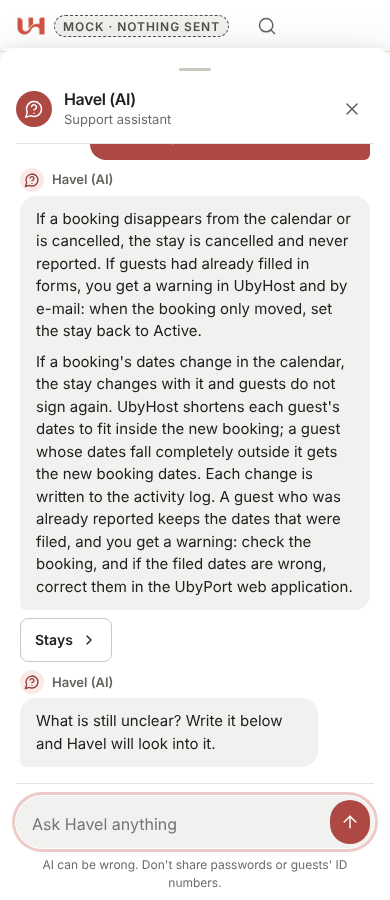
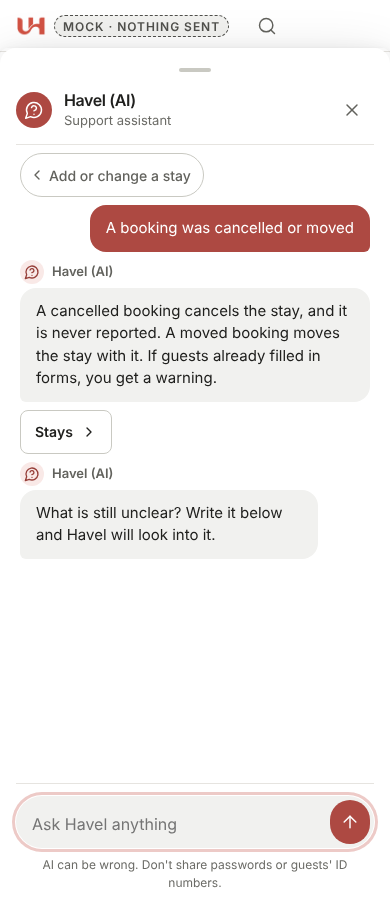
0392: Havel answers short and direct
- Topic answers show one short string per question (havel.short.* in en, cs, vi); the guide keys stay for read_keys()
- AI prompt: at most four steps, about 60 words, no intro or summary, up to two answers per reply
- Tests and refreshed answer-ask-390 screenshot

Claude-Session: https://claude.ai/code/session_017GNdySPNU4QowPqKkDneew

diff --git a/App/app/havel_topics.py b/App/app/havel_topics.py
@@ -1,6 +1,7 @@
 """Havel's quick-help layer (plan 17c): five topics, each with two to four questions.
 
-An answer is the guide strings named by its keys, in order, shown as paragraphs.
+An answer shows its short string as paragraphs (questions without one show the guide strings
+named by their keys). The guide keys are what the host is told to read more of.
 No model call, no cost, no count. When the host presses "Still need help? Ask
 Havel", the topic and the keys they have just read travel with the message as
 ``topic`` and ``read_keys`` in the host context, so Havel does not repeat them.
@@ -13,37 +14,37 @@ from . import host_i18n
 
 TOPICS: List[Dict[str, Any]] = [
     {"id": "stays", "icon": "calendar-days", "label": "havel.topic.stays", "questions": [
-        {"id": "add", "label": "havel.q.stays.add", "keys": ["guide.stays.body"], "page": "add_stay"},
-        {"id": "change", "label": "havel.q.stays.change", "keys": ["guide.stays.detail"], "page": "stays"},
-        {"id": "cancelled", "label": "havel.q.stays.cancelled",
+        {"id": "add", "label": "havel.q.stays.add", "short": "havel.short.stays.add", "keys": ["guide.stays.body"], "page": "add_stay"},
+        {"id": "change", "label": "havel.q.stays.change", "short": "havel.short.stays.change", "keys": ["guide.stays.detail"], "page": "stays"},
+        {"id": "cancelled", "label": "havel.q.stays.cancelled", "short": "havel.short.stays.cancelled",
          "keys": ["guide.stays.cancelled", "guide.stays.dates_changed"], "page": "stays"},
     ]},
     {"id": "guest_link", "icon": "external-link", "label": "havel.topic.guest_link", "questions": [
-        {"id": "how", "label": "havel.q.guest_link.how",
+        {"id": "how", "label": "havel.q.guest_link.how", "short": "havel.short.guest_link.how",
          "keys": ["guide.guests.body", "guide.guests.step_pin", "guide.guests.step_pick", "guide.guests.step_claim",
                   "guide.guests.step_form"], "page": "property_guests"},
-        {"id": "where", "label": "havel.q.guest_link.where", "keys": ["guide.guest_links.find1", "guide.guest_links.find2",
+        {"id": "where", "label": "havel.q.guest_link.where", "short": "havel.short.guest_link.where", "keys": ["guide.guest_links.find1", "guide.guest_links.find2",
                   "guide.guest_links.find3", "guide.guest_links.find4", "guide.guest_links.find5"],
          "page": "property_guests"},
-        {"id": "broken", "label": "havel.q.guest_link.broken", "keys": ["guide.faq.link_a"], "page": "property_guests"},
+        {"id": "broken", "label": "havel.q.guest_link.broken", "short": "havel.short.guest_link.broken", "keys": ["guide.faq.link_a"], "page": "property_guests"},
     ]},
     {"id": "reporting", "icon": "send", "label": "havel.topic.reporting", "questions": [
-        {"id": "when", "label": "havel.q.reporting.when",
+        {"id": "when", "label": "havel.q.reporting.when", "short": "havel.short.reporting.when",
          "keys": ["guide.reporting.body", "guide.reporting.immediate_detail", "guide.reporting.scheduled_detail",
                   "guide.reporting.manual_detail"], "page": "reports"},
-        {"id": "colours", "label": "havel.q.reporting.colours",
+        {"id": "colours", "label": "havel.q.reporting.colours", "short": "havel.short.reporting.colours",
          "keys": ["guide.statuses.lede", "guide.statuses.ready", "guide.statuses.waiting", "guide.statuses.reported",
                   "guide.statuses.failed"], "page": "guide_statuses"},
-        {"id": "czech", "label": "havel.q.reporting.czech", "keys": ["guide.faq.czech_a"], "page": "reports"},
+        {"id": "czech", "label": "havel.q.reporting.czech", "short": "havel.short.reporting.czech", "keys": ["guide.faq.czech_a"], "page": "reports"},
     ]},
     {"id": "calendars", "icon": "refresh-cw", "label": "havel.topic.calendars", "questions": [
-        {"id": "connect", "label": "havel.q.calendars.connect", "keys": ["guide.stays.calendar1", "guide.stays.calendar2",
+        {"id": "connect", "label": "havel.q.calendars.connect", "short": "havel.short.calendars.connect", "keys": ["guide.stays.calendar1", "guide.stays.calendar2",
                     "guide.stays.calendar3", "guide.stays.calendar4", "guide.stays.calendar5",
                     "guide.stays.calendar6", "guide.stays.calendar7"], "page": "property_calendars"},
-        {"id": "stale", "label": "havel.q.calendars.stale", "keys": ["guide.stays.body"], "page": "property_calendars"},
+        {"id": "stale", "label": "havel.q.calendars.stale", "short": "havel.short.calendars.stale", "keys": ["guide.stays.body"], "page": "property_calendars"},
     ]},
     {"id": "wrong", "icon": "triangle-alert", "label": "havel.topic.wrong", "questions": [
-        {"id": "report", "label": "havel.q.wrong.report", "keys": ["guide.reporting.failure"], "page": "reports"},
+        {"id": "report", "label": "havel.q.wrong.report", "short": "havel.short.wrong.report", "keys": ["guide.reporting.failure"], "page": "reports"},
         {"id": "error", "label": "havel.q.wrong.error", "keys": ["havel.topic.support_body"], "page": None,
          "support": True},
     ]},
@@ -81,6 +82,7 @@ def answer(lang: str, topic_id: str, q_id: str) -> Optional[Dict[str, Any]]:
     q = question(topic_id, q_id)
     if not q:
         return None
-    texts = [host_i18n.translate(lang, k) for k in q["keys"]]
+    keys = [q["short"]] if q.get("short") else q["keys"]
+    texts = [host_i18n.translate(lang, k) for k in keys]
     return {"topic": topic_id, "question": q, "paragraphs": [t for t in texts if t and t != "?"],
             "page": q.get("page"), "support": bool(q.get("support"))}

diff --git a/App/app/host_i18n.py b/App/app/host_i18n.py
@@ -1598,6 +1598,18 @@ STRINGS: Dict[str, Dict[str, str]] = {
         "havel.topic.ask": "Didn't help? Ask Havel",
         "havel.topic.guide": "Read more in the guide",
         "havel.topic.support_body": "Write to support with what you see and on which page. A person replies by e-mail.",
+        "havel.short.stays.add": "Use Add stay (the button below). Stays from your connected calendars come in on their own.",
+        "havel.short.stays.change": "Open the stay. There you add or remove guests, copy the guest link, send the report, set its state and create an invoice.",
+        "havel.short.stays.cancelled": "A cancelled booking cancels the stay, and it is never reported. A moved booking moves the stay with it. If guests already filled in forms, you get a warning.",
+        "havel.short.guest_link.how": "Guests open your property link, enter the PIN, pick their stay and fill in one form per person, children included.",
+        "havel.short.guest_link.where": "Open the property, then Settings and Guest experience. Under Guest links, copy the link and the Access PIN into your check-in message.",
+        "havel.short.guest_link.broken": "Check the guest has the current PIN. Their stay shows from two days before arrival. If someone else claimed it, open the stay and press Unlink this e-mail.",
+        "havel.short.reporting.when": "It depends on the property's setting: as soon as all forms are complete, a set number of hours later, or only when you press Send.",
+        "havel.short.reporting.colours": "The stronger the colour, the more it needs you. Failed means UbyPort did not accept it: open the stay and act.",
+        "havel.short.reporting.czech": "No. Czech guests are not reported to the police.",
+        "havel.short.calendars.connect": "Copy the iCal export link from Airbnb or Booking.com. Paste it on the property's Bookings & calendars tab and tap Add calendar.",
+        "havel.short.calendars.stale": "UbyHost checks calendars on its own. To fetch new bookings now, tap Update calendars on the property's Bookings & calendars tab.",
+        "havel.short.wrong.report": "If UbyPort is down, UbyHost retries on its own and alerts you. If UbyPort refuses the login, sending pauses until you save new login details.",
         "havel.q.stays.add": "How do I add a stay by hand?",
         "havel.q.stays.change": "What can I change on a stay?",
         "havel.q.stays.cancelled": "A booking was cancelled or moved",
@@ -3235,6 +3247,18 @@ STRINGS: Dict[str, Dict[str, str]] = {
         "havel.topic.ask": "Nepomohlo to? Zeptejte se Havla",
         "havel.topic.guide": "Více v nápovědě",
         "havel.topic.support_body": "Napište podpoře, co vidíte a na které stránce. Odpoví vám člověk e-mailem.",
+        "havel.short.stays.add": "Použijte Přidat pobyt (tlačítko níže). Pobyty z propojených kalendářů přibývají samy.",
+        "havel.short.stays.change": "Otevřete pobyt. Tam přidáte nebo odeberete hosty, zkopírujete odkaz pro hosty, odešlete hlášení, nastavíte stav a vystavíte fakturu.",
+        "havel.short.stays.cancelled": "Zrušená rezervace zruší pobyt a ten se nikdy nenahlásí. Přesunutá rezervace posune i pobyt. Pokud už hosté vyplnili formuláře, dostanete upozornění.",
+        "havel.short.guest_link.how": "Hosté otevřou odkaz ubytování, zadají PIN, vyberou svůj pobyt a každý, i děti, vyplní svůj formulář.",
+        "havel.short.guest_link.where": "Otevřete ubytování, pak Nastavení a Pro hosty. V části Odkazy pro hosty zkopírujte odkaz a přístupový PIN do zprávy k příjezdu.",
+        "havel.short.guest_link.broken": "Ověřte, že host má aktuální PIN. Pobyt se nabízí od dvou dnů před příjezdem. Pokud ho převzal někdo jiný, otevřete pobyt a stiskněte Odpojit tento e-mail.",
+        "havel.short.reporting.when": "Podle nastavení ubytování: hned po vyplnění všech formulářů, po zvoleném počtu hodin, nebo až když stisknete Odeslat.",
+        "havel.short.reporting.colours": "Čím výraznější barva, tím víc to potřebuje vás. Selhalo znamená, že UbyPort záznam nepřijal: otevřete pobyt a jednejte.",
+        "havel.short.reporting.czech": "Ne. Čeští hosté se policii nehlásí.",
+        "havel.short.calendars.connect": "Zkopírujte odkaz pro export iCal z Airbnb nebo Booking.com. Vložte ho na záložce Rezervace a kalendáře u ubytování a klepněte na Přidat kalendář.",
+        "havel.short.calendars.stale": "UbyHost kontroluje kalendáře sám. Nové rezervace načtete hned tlačítkem Aktualizovat kalendáře na záložce Rezervace a kalendáře.",
+        "havel.short.wrong.report": "Když UbyPort nefunguje, UbyHost to zkouší znovu sám a upozorní vás. Když UbyPort odmítne přihlášení, odesílání se zastaví, dokud neuložíte nové údaje.",
         "havel.q.stays.add": "Jak přidám pobyt ručně?",
         "havel.q.stays.change": "Co můžu u pobytu změnit?",
         "havel.q.stays.cancelled": "Rezervace byla zrušena nebo přesunuta",

diff --git a/App/app/host_vi_i18n.py b/App/app/host_vi_i18n.py
@@ -3380,6 +3380,18 @@ STRINGS: Dict[str, str] = {
     "havel.topic.ask": "Chưa giúp được? Hỏi Havel",
     "havel.topic.guide": "Đọc thêm trong hướng dẫn",
     "havel.topic.support_body": "Hãy viết cho bộ phận hỗ trợ: bạn thấy gì và ở trang nào. Một người sẽ trả lời qua e-mail.",
+    "havel.short.stays.add": "Dùng Thêm lượt lưu trú (nút bên dưới). Lượt lưu trú từ lịch đã kết nối sẽ tự vào.",
+    "havel.short.stays.change": "Mở lượt lưu trú. Tại đó bạn thêm hoặc xóa khách, sao chép liên kết cho khách, gửi khai báo, đặt trạng thái và tạo hóa đơn.",
+    "havel.short.stays.cancelled": "Đặt phòng bị hủy sẽ hủy lượt lưu trú và không bao giờ được khai báo. Đặt phòng bị dời thì lượt lưu trú dời theo. Nếu khách đã điền biểu mẫu, bạn sẽ nhận cảnh báo.",
+    "havel.short.guest_link.how": "Khách mở liên kết chỗ ở, nhập mã PIN, chọn lượt lưu trú và mỗi người, kể cả trẻ em, điền một biểu mẫu.",
+    "havel.short.guest_link.where": "Mở chỗ ở, rồi Cài đặt và Trải nghiệm của khách. Dưới Liên kết cho khách, sao chép liên kết và mã PIN truy cập vào tin nhắn nhận phòng.",
+    "havel.short.guest_link.broken": "Kiểm tra khách có mã PIN hiện tại. Lượt lưu trú hiện từ hai ngày trước ngày đến. Nếu người khác đã xác nhận, mở lượt lưu trú và bấm Gỡ email này.",
+    "havel.short.reporting.when": "Tùy cài đặt của chỗ ở: ngay khi mọi biểu mẫu hoàn tất, sau một số giờ đã chọn, hoặc chỉ khi bạn bấm Gửi.",
+    "havel.short.reporting.colours": "Màu càng đậm thì càng cần bạn xử lý. Thất bại nghĩa là UbyPort không nhận: mở lượt lưu trú và xử lý.",
+    "havel.short.reporting.czech": "Không. Khách mang quốc tịch Séc không phải khai báo với cảnh sát.",
+    "havel.short.calendars.connect": "Sao chép liên kết xuất iCal từ Airbnb hoặc Booking.com. Dán vào tab Đặt phòng & lịch của chỗ ở và nhấn Thêm lịch.",
+    "havel.short.calendars.stale": "UbyHost tự kiểm tra lịch. Để lấy đặt phòng mới ngay, nhấn Cập nhật lịch trên tab Đặt phòng & lịch của chỗ ở.",
+    "havel.short.wrong.report": "Nếu UbyPort ngừng hoạt động, UbyHost tự thử lại và cảnh báo bạn. Nếu UbyPort từ chối đăng nhập, việc gửi tạm dừng cho đến khi bạn lưu thông tin đăng nhập mới.",
     "havel.q.stays.add": "Làm sao để thêm lượt ở bằng tay?",
     "havel.q.stays.change": "Tôi có thể sửa gì ở một lượt ở?",
     "havel.q.stays.cancelled": "Một đặt phòng bị hủy hoặc đổi ngày",

diff --git a/App/tests/test_havel_topics.py b/App/tests/test_havel_topics.py
@@ -31,7 +31,8 @@ def test_every_topic_key_resolves_in_both_languages():
             assert host_i18n.translate(lang, topic["label"]) not in ("", topic["label"])
             for q in topic["questions"]:
                 answer = havel_topics.answer(lang, topic["id"], q["id"])
-                assert len(answer["paragraphs"]) == len(q["keys"]), (lang, topic["id"], q["id"])
+                expected = 1 if q.get("short") else len(q["keys"])
+                assert len(answer["paragraphs"]) == expected, (lang, topic["id"], q["id"])
                 for p in answer["paragraphs"]:
                     assert "%(" not in p and "<" not in p and not p.startswith(("guide.", "havel."))
 
@@ -53,8 +54,8 @@ def test_topics_render_on_the_page_and_as_fragments(host):
     answer = html.unescape(host.get("/havel?topic=guest_link&q=where&lang=en", headers={"X-Havel": "1"}).text)
     assert "<html" not in answer and 'data-mode="replace"' in answer
     assert 'href="/havel?topic=guest_link&q=where&ask=1" data-havel-topic-link data-havel-ask-open' in answer
-    assert host_i18n.translate("en", "guide.guest_links.find1")[:20] in answer or \
-        host_i18n.translate("cs", "guide.guest_links.find1")[:20] in answer
+    assert host_i18n.translate("en", "havel.short.guest_link.where")[:20] in answer or \
+        host_i18n.translate("cs", "havel.short.guest_link.where")[:20] in answer
     support = html.unescape(host.get("/havel?topic=wrong&q=error&lang=en").text)
     assert 'action="/havel/support"' in support
     assert host.get("/havel?topic=evil&q=../x&lang=en").status_code == 200
@@ -79,3 +80,16 @@ def test_hand_off_sends_topic_and_read_keys_to_the_engine(host, monkeypatch):
     assert seen["host"].topic == "stays" and seen["host"].page == "stays"
     assert seen["host"].read_keys == ["guide.stays.cancelled", "guide.stays.dates_changed"]
     assert 'data-mode="append"' in res.text and "havel-msg-havel" in res.text
+
+
+def test_short_answers_are_short_and_read_keys_stay_guide_keys():
+    for lang in ("en", "cs", "vi"):
+        for topic in havel_topics.TOPICS:
+            for q in topic["questions"]:
+                if not q.get("short"):
+                    continue
+                text = host_i18n.translate(lang, q["short"])
+                assert text and text not in ("?", q["short"]), (lang, q["short"])
+                assert len(text) <= 220, (lang, q["short"])
+    assert havel_topics.read_keys("stays", "cancelled") == ["guide.stays.cancelled", "guide.stays.dates_changed"]
+    assert havel_topics.read_keys("guest_link", "where")[0] == "guide.guest_links.find1"

diff --git a/App/app/havel_prompt.py b/App/app/havel_prompt.py
@@ -31,7 +31,8 @@ THE ONE RULE ABOVE ALL: NEVER MAKE THINGS UP
 
 HOW TO EXPLAIN STEPS
 - Start with one short sentence that answers the question.
-- Then give numbered steps, written "1. ", "2. " on separate lines, at most eight. Each step is one single action, such as one tap or one field to fill.
+- Keep the whole reply short and direct: about 60 words at most. Answer only what the host asked. No introduction, no summary at the end, and do not repeat the question.
+- Then give numbered steps, written "1. ", "2. " on separate lines, at most four. If the task needs more, give the first steps and say the button below opens the page. Each step is one single action, such as one tap or one field to fill.
 - Say where things are only if the guide says where they are. Use the device in <host_context>: on a phone say "tap", on a computer say "click". If the guide describes the place on screen for that device, use it, for example "At the bottom of the screen, tap Properties."
 - When it helps, say what the host will see after the step, but only if the guide says so.
 - If a link button will take the host straight to the page, say so in a step ("Tap the button below to open Guest links") instead of describing the way there.
@@ -87,7 +88,7 @@ WHEN THE HOST ASKS FOR SEVERAL THINGS AT ONCE
 - First name what you understood, in one short sentence ("Two things: the guest link for Vinohrady flat, and a stay there from Friday.").
 - Order: anything about the police or something broken first, then things to do (actions), then questions.
 - Handle the first one fully: answer, clarify, action or escalate, as if it were the only request.
-- If every item is a how-to question with a short guide answer, you may answer up to three in one reply, each starting with a short label line and then its steps.
+- If every item is a how-to question with a short guide answer, you may answer up to two in one reply, each starting with a short label line and then its steps.
 - Never more than one action per reply.
 - Put what is left into "next": each entry is one self-contained request in the host's own words and language, at most 80 characters, keeping only the details the host gave ("Add a stay at Vinohrady flat Friday to Sunday for 2"). At most three entries. The app shows them as buttons the host can tap to ask next.
 - With more than four requests, keep three in "next" and say kindly that they can ask the rest after these.

diff --git a/docs/tasks/0392-havel-short-answers.md b/docs/tasks/0392-havel-short-answers.md
@@ -1,0 +1,87 @@
+# 0392: Havel answers short and direct (topic answers and AI replies)
+
+Status: done
+Depends on: 0391 (same branch, not merged) | Branch: claude/0391-havel-topics-first (already checked out; commit here)
+Executor: Haiku 5.5 | Fits one session: 30 tool calls, 60k tokens
+
+## 1. Objective
+
+Owner (Josef, 2026-10-25): "Havel really answers paragraphs, it's too long. Make him answer more brief and direct."
+
+1. **Topic answers** (no AI): each question shows ONE short answer of one to three sentences, written for Havel, instead of the full guide paragraphs. The full text stays one tap away behind the existing page button ("Read more in the guide" or the page name).
+2. **AI replies**: the prompt asks for at most four steps and about 60 words in total, with no intro, no summary and no repeated question.
+
+## 2. Context
+
+- `App/app/havel_topics.py`: `TOPICS` (each question has `keys`, `page`), `answer(lang, topic_id, q_id)` returns `paragraphs` from `keys`. `read_keys()` reads `keys` (what the AI is told the host already read): keep it reading `keys`.
+- `App/app/havel_prompt.py` ~32-41: section "HOW TO EXPLAIN STEPS"; ~90: "you may answer up to three in one reply".
+- Copy: `App/app/host_i18n.py` (en after `havel.topic.support_body` ~1600, cs ~3234), `App/app/host_vi_i18n.py` (vi ~3380).
+- Template `_havel_topics.html` renders `havel_answer.paragraphs`: no template change needed.
+
+## 3. Files
+
+| Path | Action |
+|---|---|
+| App/app/havel_topics.py | `short` key per question; `answer()` uses it |
+| App/app/havel_prompt.py | 3 sentence edits |
+| App/app/host_i18n.py, App/app/host_vi_i18n.py | 12 new keys × en, cs, vi |
+| App/tests/test_havel_topics.py | update/add assertions |
+| docs/tasks/screenshots-0391/ | refresh `answer-ask-390.png` by re-running the 0391 test |
+
+## 4. Steps
+
+1. **Topics** (`havel_topics.py`): add `"short": "havel.short.<topic>.<q>"` to every question except `wrong/error` (it is already one sentence). In `answer()`: `keys = [q["short"]] if q.get("short") else q["keys"]`, then build `paragraphs` from `keys` as today. Update the module docstring line "An answer is the guide strings named by its keys" to say the short key is shown and the guide keys are what the host is told to read more of.
+
+2. **Copy.** Add these keys after `havel.topic.support_body` in each language. Copy them exactly.
+
+| key | en | cs | vi |
+|---|---|---|---|
+| havel.short.stays.add | Use Add stay (the button below). Stays from your connected calendars come in on their own. | Použijte Přidat pobyt (tlačítko níže). Pobyty z propojených kalendářů přibývají samy. | Dùng Thêm lượt lưu trú (nút bên dưới). Lượt lưu trú từ lịch đã kết nối sẽ tự vào. |
+| havel.short.stays.change | Open the stay. There you add or remove guests, copy the guest link, send the report, set its state and create an invoice. | Otevřete pobyt. Tam přidáte nebo odeberete hosty, zkopírujete odkaz pro hosty, odešlete hlášení, nastavíte stav a vystavíte fakturu. | Mở lượt lưu trú. Tại đó bạn thêm hoặc xóa khách, sao chép liên kết cho khách, gửi khai báo, đặt trạng thái và tạo hóa đơn. |
+| havel.short.stays.cancelled | A cancelled booking cancels the stay, and it is never reported. A moved booking moves the stay with it. If guests already filled in forms, you get a warning. | Zrušená rezervace zruší pobyt a ten se nikdy nenahlásí. Přesunutá rezervace posune i pobyt. Pokud už hosté vyplnili formuláře, dostanete upozornění. | Đặt phòng bị hủy sẽ hủy lượt lưu trú và không bao giờ được khai báo. Đặt phòng bị dời thì lượt lưu trú dời theo. Nếu khách đã điền biểu mẫu, bạn sẽ nhận cảnh báo. |
+| havel.short.guest_link.how | Guests open your property link, enter the PIN, pick their stay and fill in one form per person, children included. | Hosté otevřou odkaz ubytování, zadají PIN, vyberou svůj pobyt a každý, i děti, vyplní svůj formulář. | Khách mở liên kết chỗ ở, nhập mã PIN, chọn lượt lưu trú và mỗi người, kể cả trẻ em, điền một biểu mẫu. |
+| havel.short.guest_link.where | Open the property, then Settings and Guest experience. Under Guest links, copy the link and the Access PIN into your check-in message. | Otevřete ubytování, pak Nastavení a Pro hosty. V části Odkazy pro hosty zkopírujte odkaz a přístupový PIN do zprávy k příjezdu. | Mở chỗ ở, rồi Cài đặt và Trải nghiệm của khách. Dưới Liên kết cho khách, sao chép liên kết và mã PIN truy cập vào tin nhắn nhận phòng. |
+| havel.short.guest_link.broken | Check the guest has the current PIN. Their stay shows from two days before arrival. If someone else claimed it, open the stay and press Unlink this e-mail. | Ověřte, že host má aktuální PIN. Pobyt se nabízí od dvou dnů před příjezdem. Pokud ho převzal někdo jiný, otevřete pobyt a stiskněte Odpojit tento e-mail. | Kiểm tra khách có mã PIN hiện tại. Lượt lưu trú hiện từ hai ngày trước ngày đến. Nếu người khác đã xác nhận, mở lượt lưu trú và bấm Gỡ email này. |
+| havel.short.reporting.when | It depends on the property's setting: as soon as all forms are complete, a set number of hours later, or only when you press Send. | Podle nastavení ubytování: hned po vyplnění všech formulářů, po zvoleném počtu hodin, nebo až když stisknete Odeslat. | Tùy cài đặt của chỗ ở: ngay khi mọi biểu mẫu hoàn tất, sau một số giờ đã chọn, hoặc chỉ khi bạn bấm Gửi. |
+| havel.short.reporting.colours | The stronger the colour, the more it needs you. Failed means UbyPort did not accept it: open the stay and act. | Čím výraznější barva, tím víc to potřebuje vás. Selhalo znamená, že UbyPort záznam nepřijal: otevřete pobyt a jednejte. | Màu càng đậm thì càng cần bạn xử lý. Thất bại nghĩa là UbyPort không nhận: mở lượt lưu trú và xử lý. |
+| havel.short.reporting.czech | No. Czech guests are not reported to the police. | Ne. Čeští hosté se policii nehlásí. | Không. Khách mang quốc tịch Séc không phải khai báo với cảnh sát. |
+| havel.short.calendars.connect | Copy the iCal export link from Airbnb or Booking.com. Paste it on the property's Bookings & calendars tab and tap Add calendar. | Zkopírujte odkaz pro export iCal z Airbnb nebo Booking.com. Vložte ho na záložce Rezervace a kalendáře u ubytování a klepněte na Přidat kalendář. | Sao chép liên kết xuất iCal từ Airbnb hoặc Booking.com. Dán vào tab Đặt phòng & lịch của chỗ ở và nhấn Thêm lịch. |
+| havel.short.calendars.stale | UbyHost checks calendars on its own. To fetch new bookings now, tap Update calendars on the property's Bookings & calendars tab. | UbyHost kontroluje kalendáře sám. Nové rezervace načtete hned tlačítkem Aktualizovat kalendáře na záložce Rezervace a kalendáře. | UbyHost tự kiểm tra lịch. Để lấy đặt phòng mới ngay, nhấn Cập nhật lịch trên tab Đặt phòng & lịch của chỗ ở. |
+| havel.short.wrong.report | If UbyPort is down, UbyHost retries on its own and alerts you. If UbyPort refuses the login, sending pauses until you save new login details. | Když UbyPort nefunguje, UbyHost to zkouší znovu sám a upozorní vás. Když UbyPort odmítne přihlášení, odesílání se zastaví, dokud neuložíte nové údaje. | Nếu UbyPort ngừng hoạt động, UbyHost tự thử lại và cảnh báo bạn. Nếu UbyPort từ chối đăng nhập, việc gửi tạm dừng cho đến khi bạn lưu thông tin đăng nhập mới. |
+
+3. **Prompt** (`havel_prompt.py`, section HOW TO EXPLAIN STEPS and the several-requests part). Exactly these edits:
+   - "at most eight" → "at most four. If the task needs more, give the first steps and say the button below opens the page"
+   - Right after the "Start with one short sentence that answers the question." line, add a new line: `- Keep the whole reply short and direct: about 60 words at most. Answer only what the host asked. No introduction, no summary at the end, and do not repeat the question.`
+   - "you may answer up to three in one reply" → "you may answer up to two in one reply"
+   Grep tests for "at most eight" or "up to three" (e.g. a prompt snapshot test) and update them to the new wording.
+
+4. **Tests** (`tests/test_havel_topics.py`): the existing test reads the `guest_link/where` answer and checks `guide.guest_links.find1`. Change that check to `havel.short.guest_link.where` (en or cs, as the test does today). Add one test: for every question in `TOPICS` with a `short` key, the en, cs and vi strings exist (not the key itself, not "?") and are at most 220 characters; and `read_keys()` still returns the guide keys.
+
+5. Re-run the 0391 browser test to refresh `docs/tasks/screenshots-0391/answer-ask-390.png`.
+
+## 5. Do not touch
+
+havel.py (caps, validation, MAX_REPLY_CHARS), routes, templates, the guide (`guide.*` keys), Leon files.
+
+## 6. Commands
+
+From `App/`:
+```
+.venv/bin/ruff check app tests tools --select E9,F63,F7,F82,F401,F841 2>&1 | tail -5
+UBYHOST_BROWSER_EXECUTABLE=/opt/pw-browsers/chromium UBYHOST_REQUIRE_BROWSER=1 UBYHOST_UBYPORT_ENV=mock UBYHOST_DEPLOYMENT=staging UBYHOST_ENABLE_SCHEDULER=0 .venv/bin/python -m pytest tests/test_0391_havel_topics_first_browser.py tests/test_havel*.py tests/test_ai*.py tests/test_guide*.py -q --tb=short -rs -p no:cacheprovider 2>&1 | tail -30
+cd .. && git checkout -- $(git ls-files -m docs/tasks | grep screenshots- | grep -v screenshots-0391) 2>/dev/null; python3 scripts/context_lint.py 2>&1 | tail -3
+```
+If a test fails, put its first assertion line in the report. Fix only inside §3.
+
+## 7. Acceptance
+
+- [ ] §6 passes, 0 skipped; context lint OK.
+- [ ] `answer-ask-390.png` shows a two-to-three-line answer bubble, then the page button, then the ask prompt.
+
+## 8. Stop and ask
+
+As in TEMPLATE §8.
+
+## 9. Report
+
+Write `docs/tasks/0392-report.md` (same shape as `0391-report.md`) and set this brief's Status to done. ONE commit `0392: Havel answers short and direct`, including this brief, the report and the screenshot, ending with `Co-Authored-By: Claude Haiku 5.5 <noreply@anthropic.com>` and `Claude-Session: https://claude.ai/code/session_017GNdySPNU4QowPqKkDneew`. Do not push.

diff --git a/docs/tasks/0392-report.md b/docs/tasks/0392-report.md
@@ -1,0 +1,41 @@
+# 0392 report: Havel answers short and direct
+
+Status: review
+Executor: Haiku 5.5 | Branch: claude/0391-havel-topics-first (not pushed, no PR)
+
+## Files changed
+
+- App/app/havel_topics.py: `short` key per question (not wrong/error); `answer()` shows the short key; `read_keys()` unchanged; docstring updated
+- App/app/havel_prompt.py: "at most four" steps with the button line; new "about 60 words" line after "Start with one short sentence"; "up to two in one reply"
+- App/app/host_i18n.py: 12 `havel.short.*` keys in en (after the en `havel.topic.support_body`) and cs (after the cs one)
+- App/app/host_vi_i18n.py: the same 12 keys in vi
+- App/tests/test_havel_topics.py: expected paragraph count is 1 for short questions; guest_link/where check uses `havel.short.guest_link.where`; new test for short length (<= 220 chars, en/cs/vi) and `read_keys()`
+- docs/tasks/screenshots-0391/answer-ask-390.png: refreshed by the 0391 browser test
+- docs/tasks/0392-havel-short-answers.md: Status done
+
+## Commands (last lines)
+
+- `ruff check ... --select E9,F63,F7,F82,F401,F841`: All checks passed!
+- `pytest tests/test_0391_havel_topics_first_browser.py tests/test_havel*.py tests/test_ai*.py tests/test_guide*.py -q -rs`: 141 passed, 0 skipped
+- Brief §6 cleanup: reverted the guide screenshots that the test run rewrote (only screenshots-0391 kept)
+- `python3 scripts/context_lint.py`: context lint: OK (one WARN about RETENTION.md named by open briefs 0347 and 0350; not blocking)
+
+## Acceptance (§7)
+
+- [x] §6 passes, 0 skipped; context lint OK
+- [x] answer-ask-390.png: three-line answer bubble, then the Stays page button, then the ask prompt (390 px)
+
+## Deviations
+
+- Commit: one commit as §9 and the orchestrator say, not one per step as executor.md says.
+- No push and no PR, because the orchestrator said do not push. Owner step: `git push` and open the PR when ready.
+- Test file: the existing paragraph-count assertion had to change (`len(q["keys"])` would be 1 for short answers), which is inside §3 scope.
+
+## Questions
+
+None.
+
+## Owner steps left
+
+- Review the copy in the 12 `havel.short.*` keys (en, cs, vi) before merge.
+- Push the branch and merge through `scripts/merge-pr-on-green.sh`, as usual.
